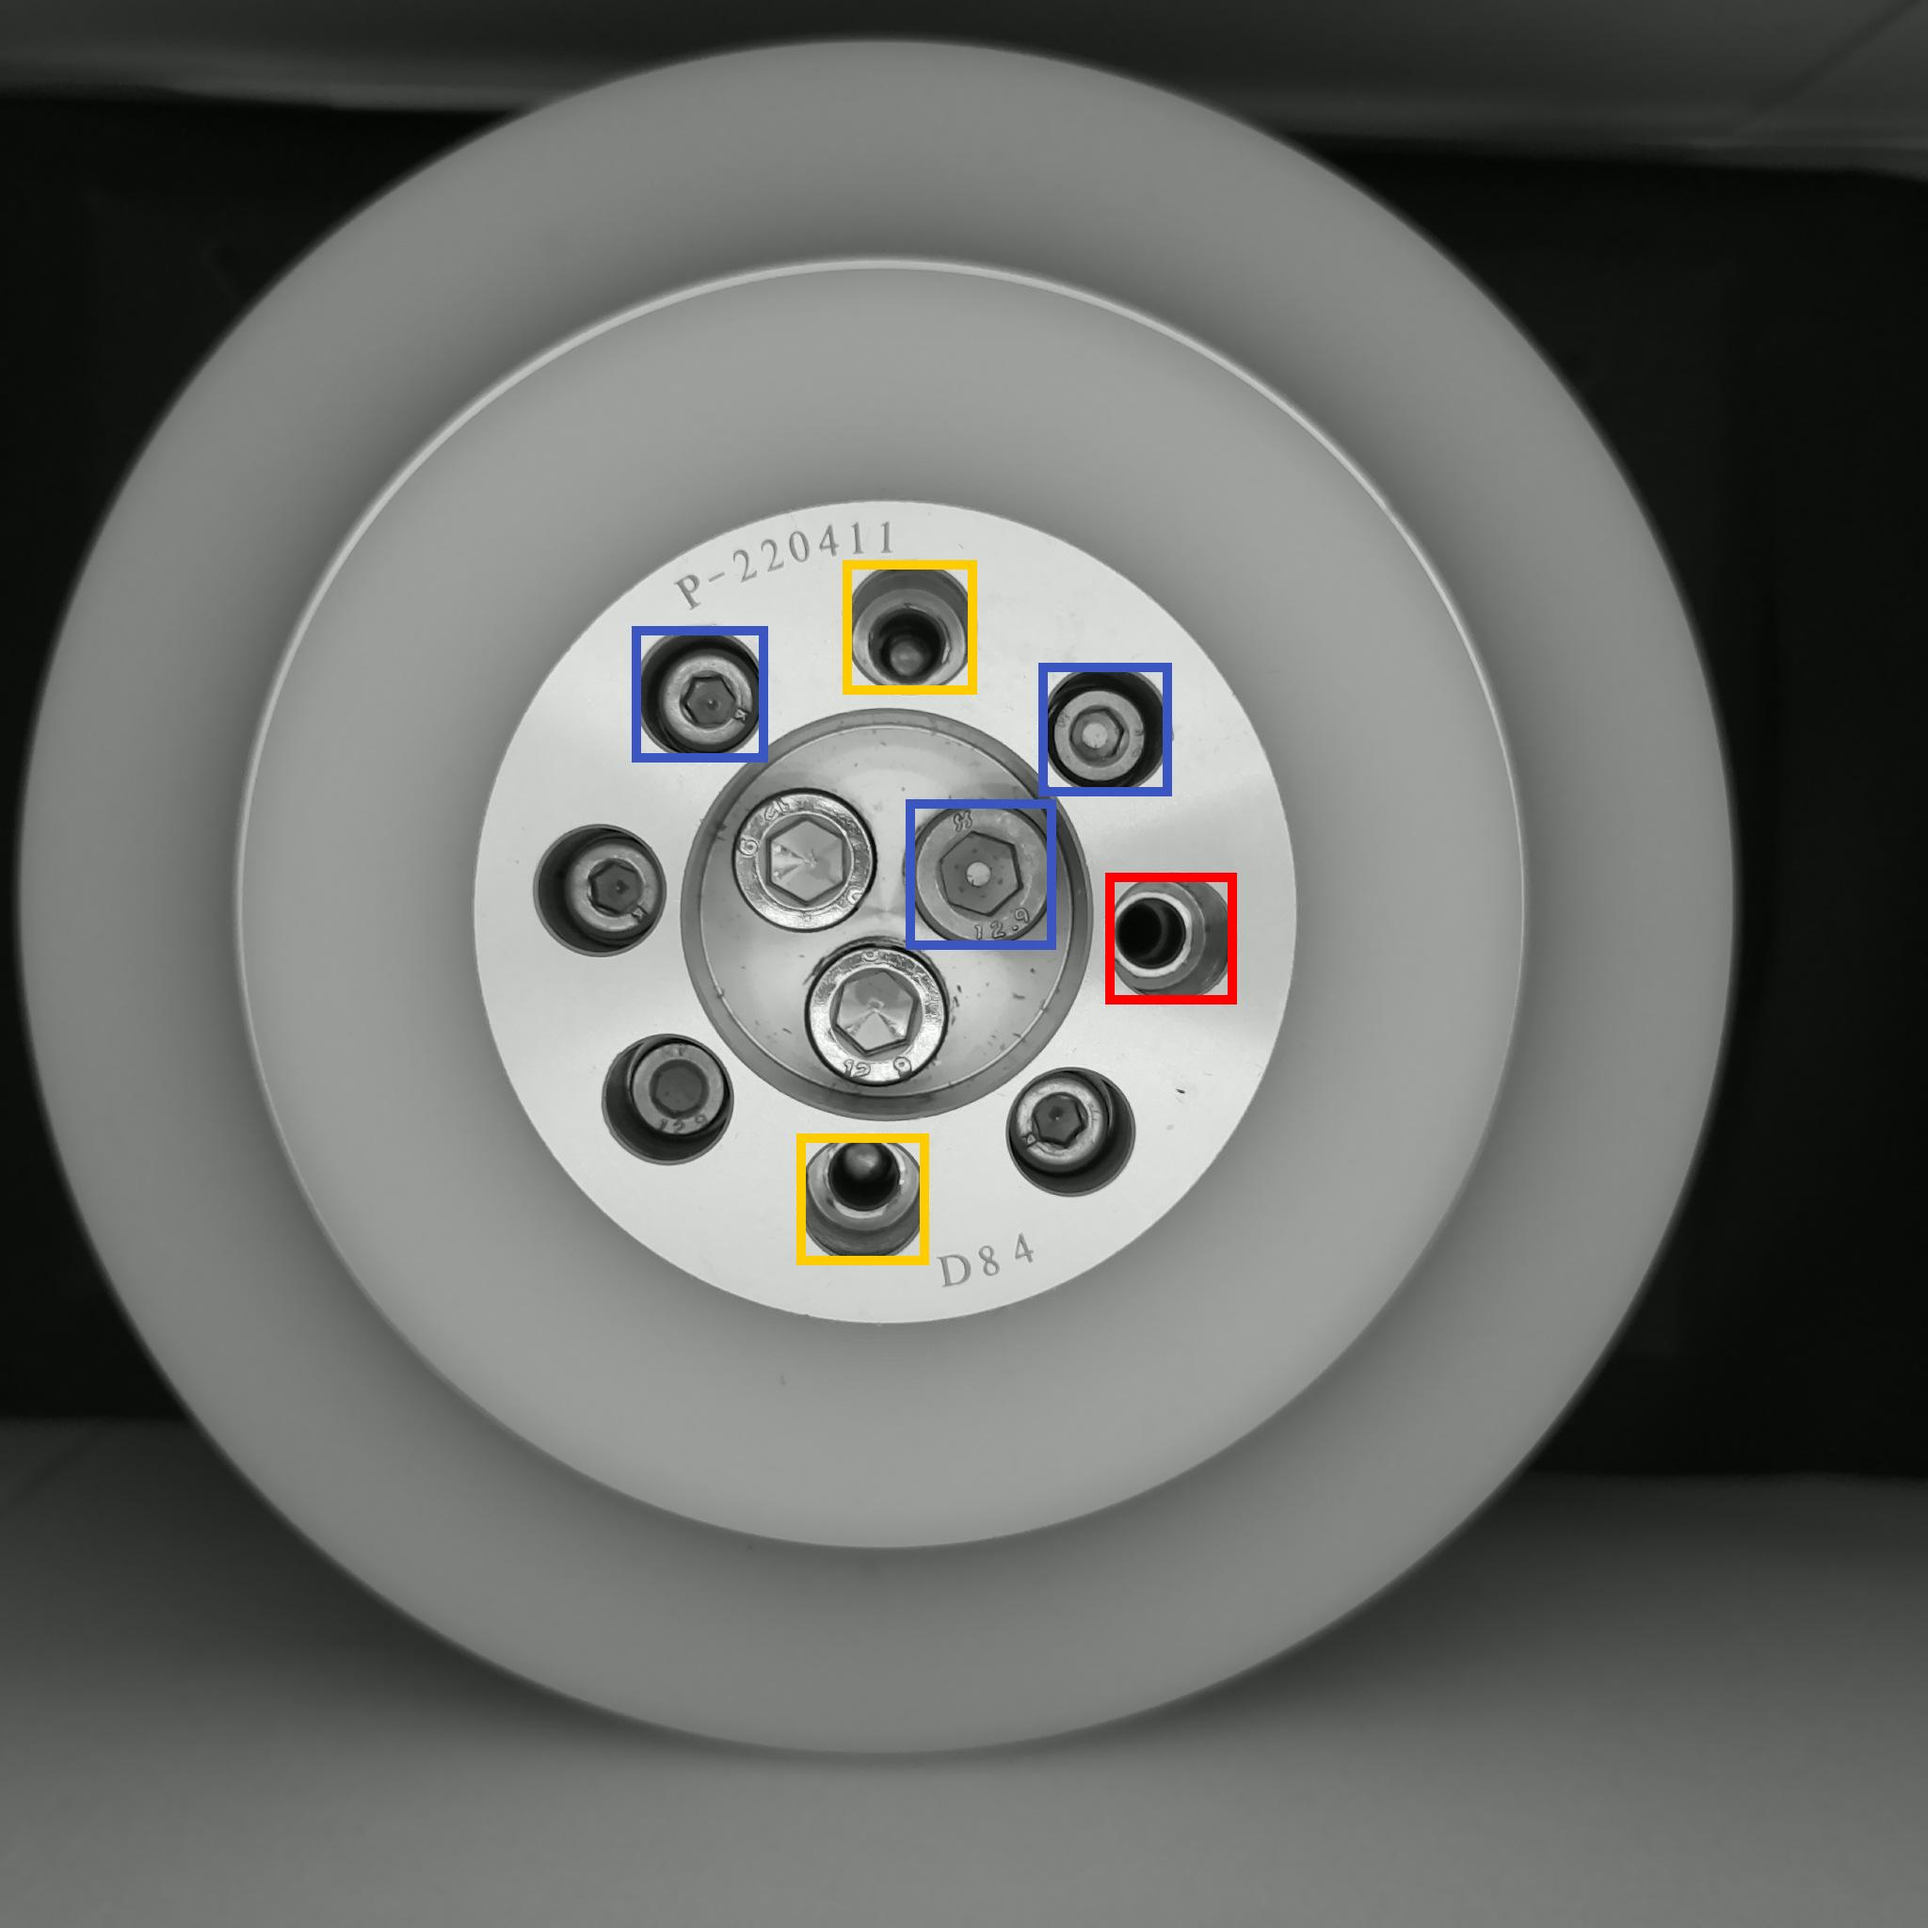
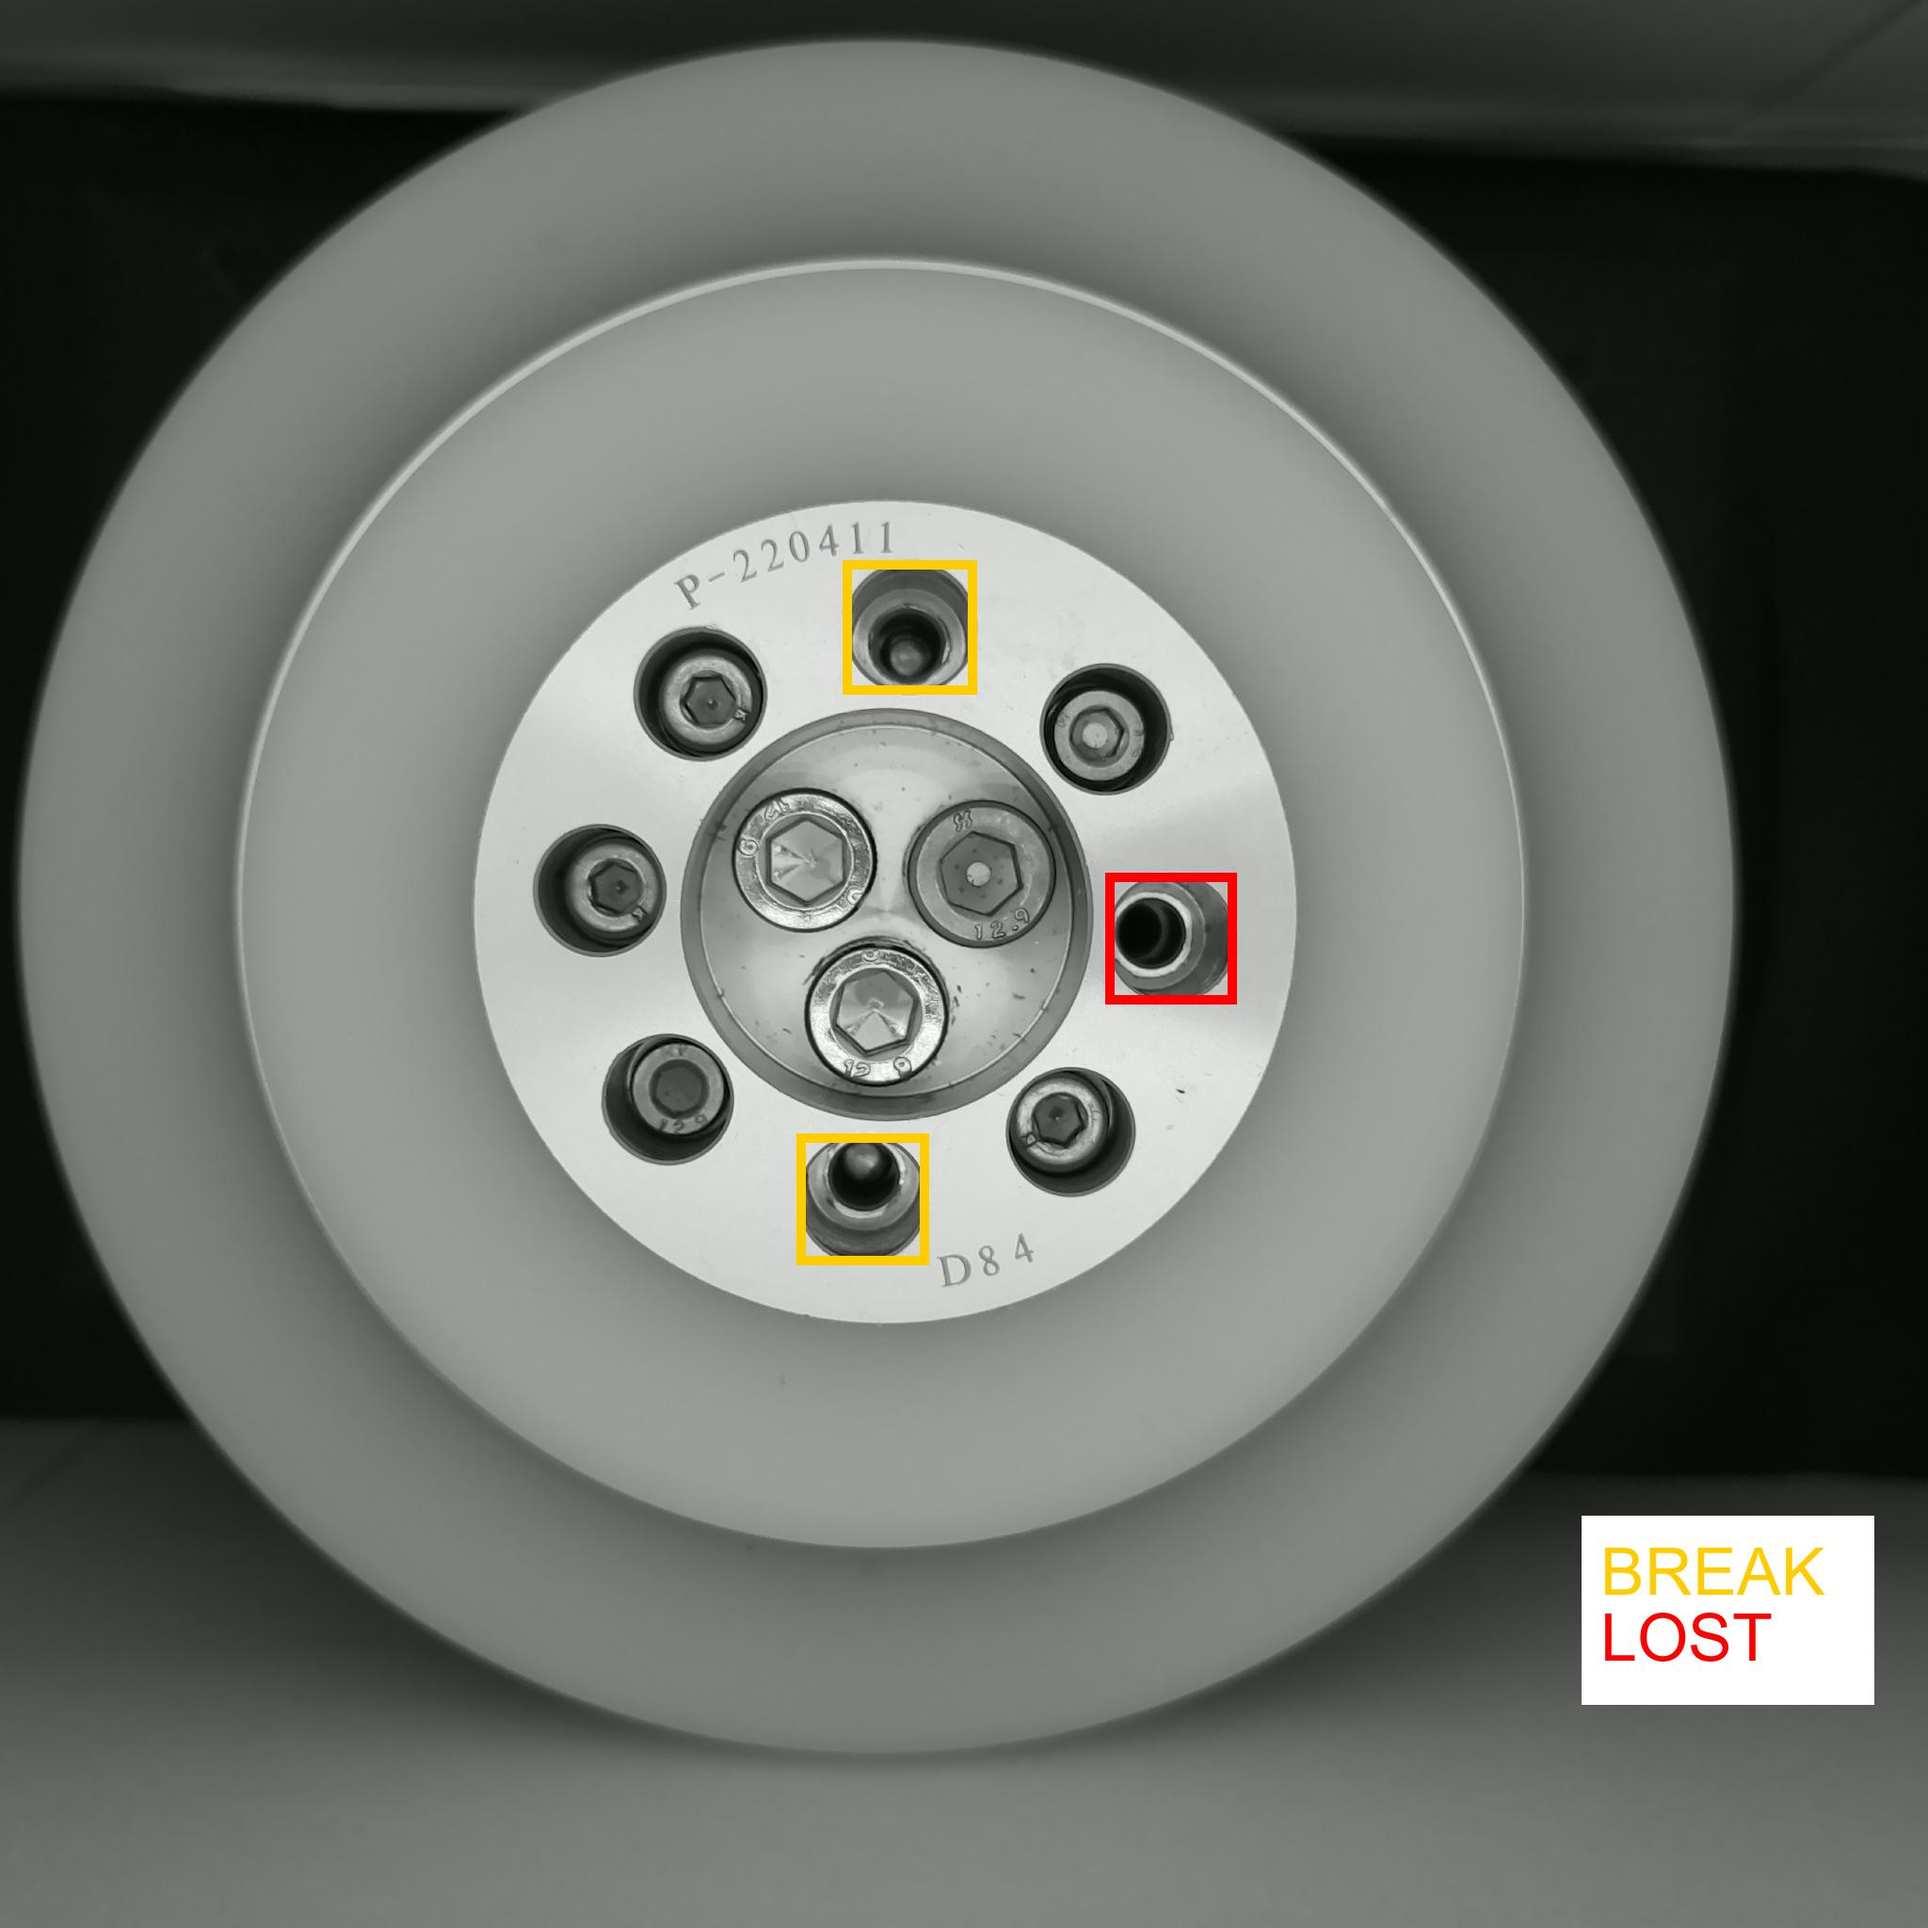
:sparkles: 디텍팅 박스 범례 추가
closes #S08P31A301-646

Former-commit-id: d15a6aaabf54c5b98db93599efce126e112e73fc

Changed region(s): [[0.8125, 0.7812, 1.0, 0.9062], [0.4688, 0.3438, 0.625, 0.5], [0.3125, 0.3125, 0.4062, 0.4062]]

diff --git a/ai/api/classification/RegNet.py b/ai/api/classification/RegNet.py
@@ -140,6 +140,21 @@ def ImgCrop(filePath, image, bboxes, binary):
                 draw.rectangle((x_min, y_min, x_max, y_max), outline=LABEL_COLOR[classification_Result], width=10, fill=None)
             f.write(result_bbox + '\n')
 
+  
+     
+        font = ImageFont.truetype("arial.ttf", 70)
+        # 이진 분류 설정시
+        if binary == True:
+            draw.rectangle((1680, 1610, 1990, 1880), outline=(255,255,255), width=10, fill=(255,255,255))
+            draw.text((1700,1630), 'BREAK', fill=LABEL_COLOR[0], font=font)
+            draw.text((1700, 1700), 'LOST', fill=LABEL_COLOR[1], font=font)
+            draw.text((1700,1770), 'LOOSE', fill=LABEL_COLOR[3], font=font)
+
+        # 이진분류 미 설정 시
+        else:
+            draw.rectangle((1680, 1610, 1990, 1810), outline=(255,255,255), width=10, fill=(255,255,255))
+            draw.text((1700,1630), 'BREAK', fill=LABEL_COLOR[0], font=font)
+            draw.text((1700, 1700), 'LOST', fill=LABEL_COLOR[1], font=font)
 
         print(os.path.exists(WHEEL_RESULT_PATH))
         result_image.save(WHEEL_RESULT_PATH + filePath + '.jpg')
